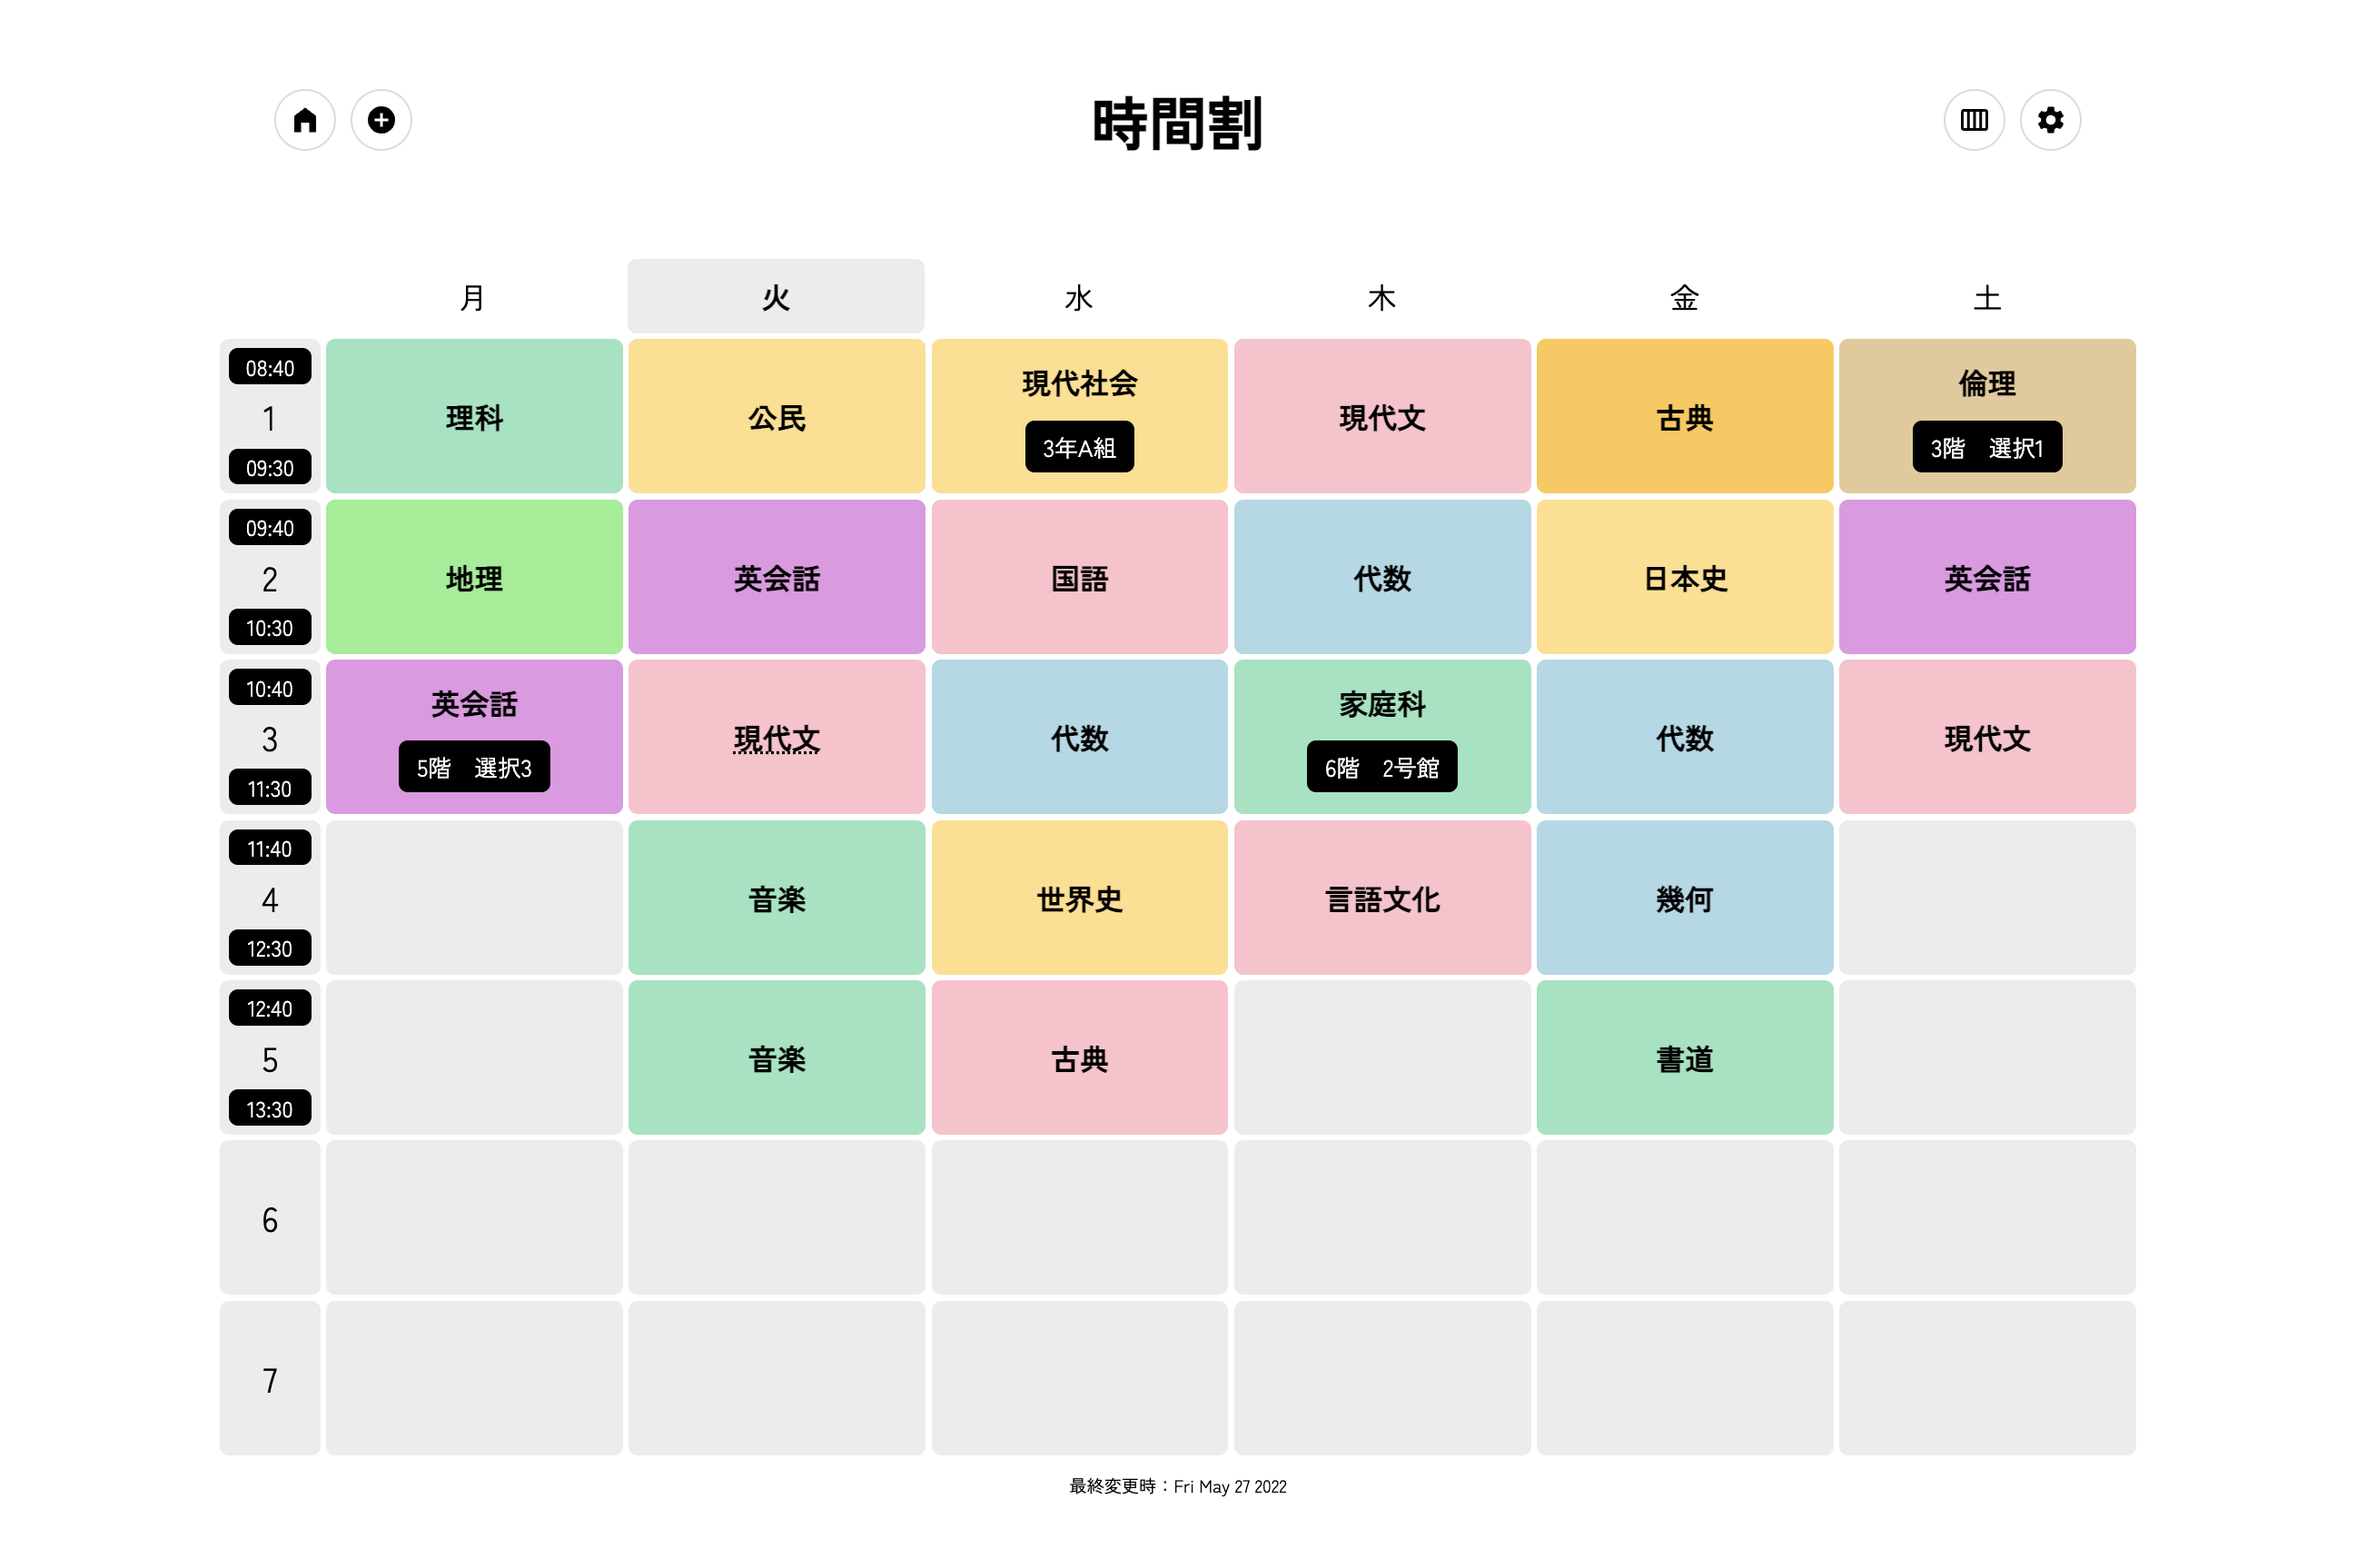
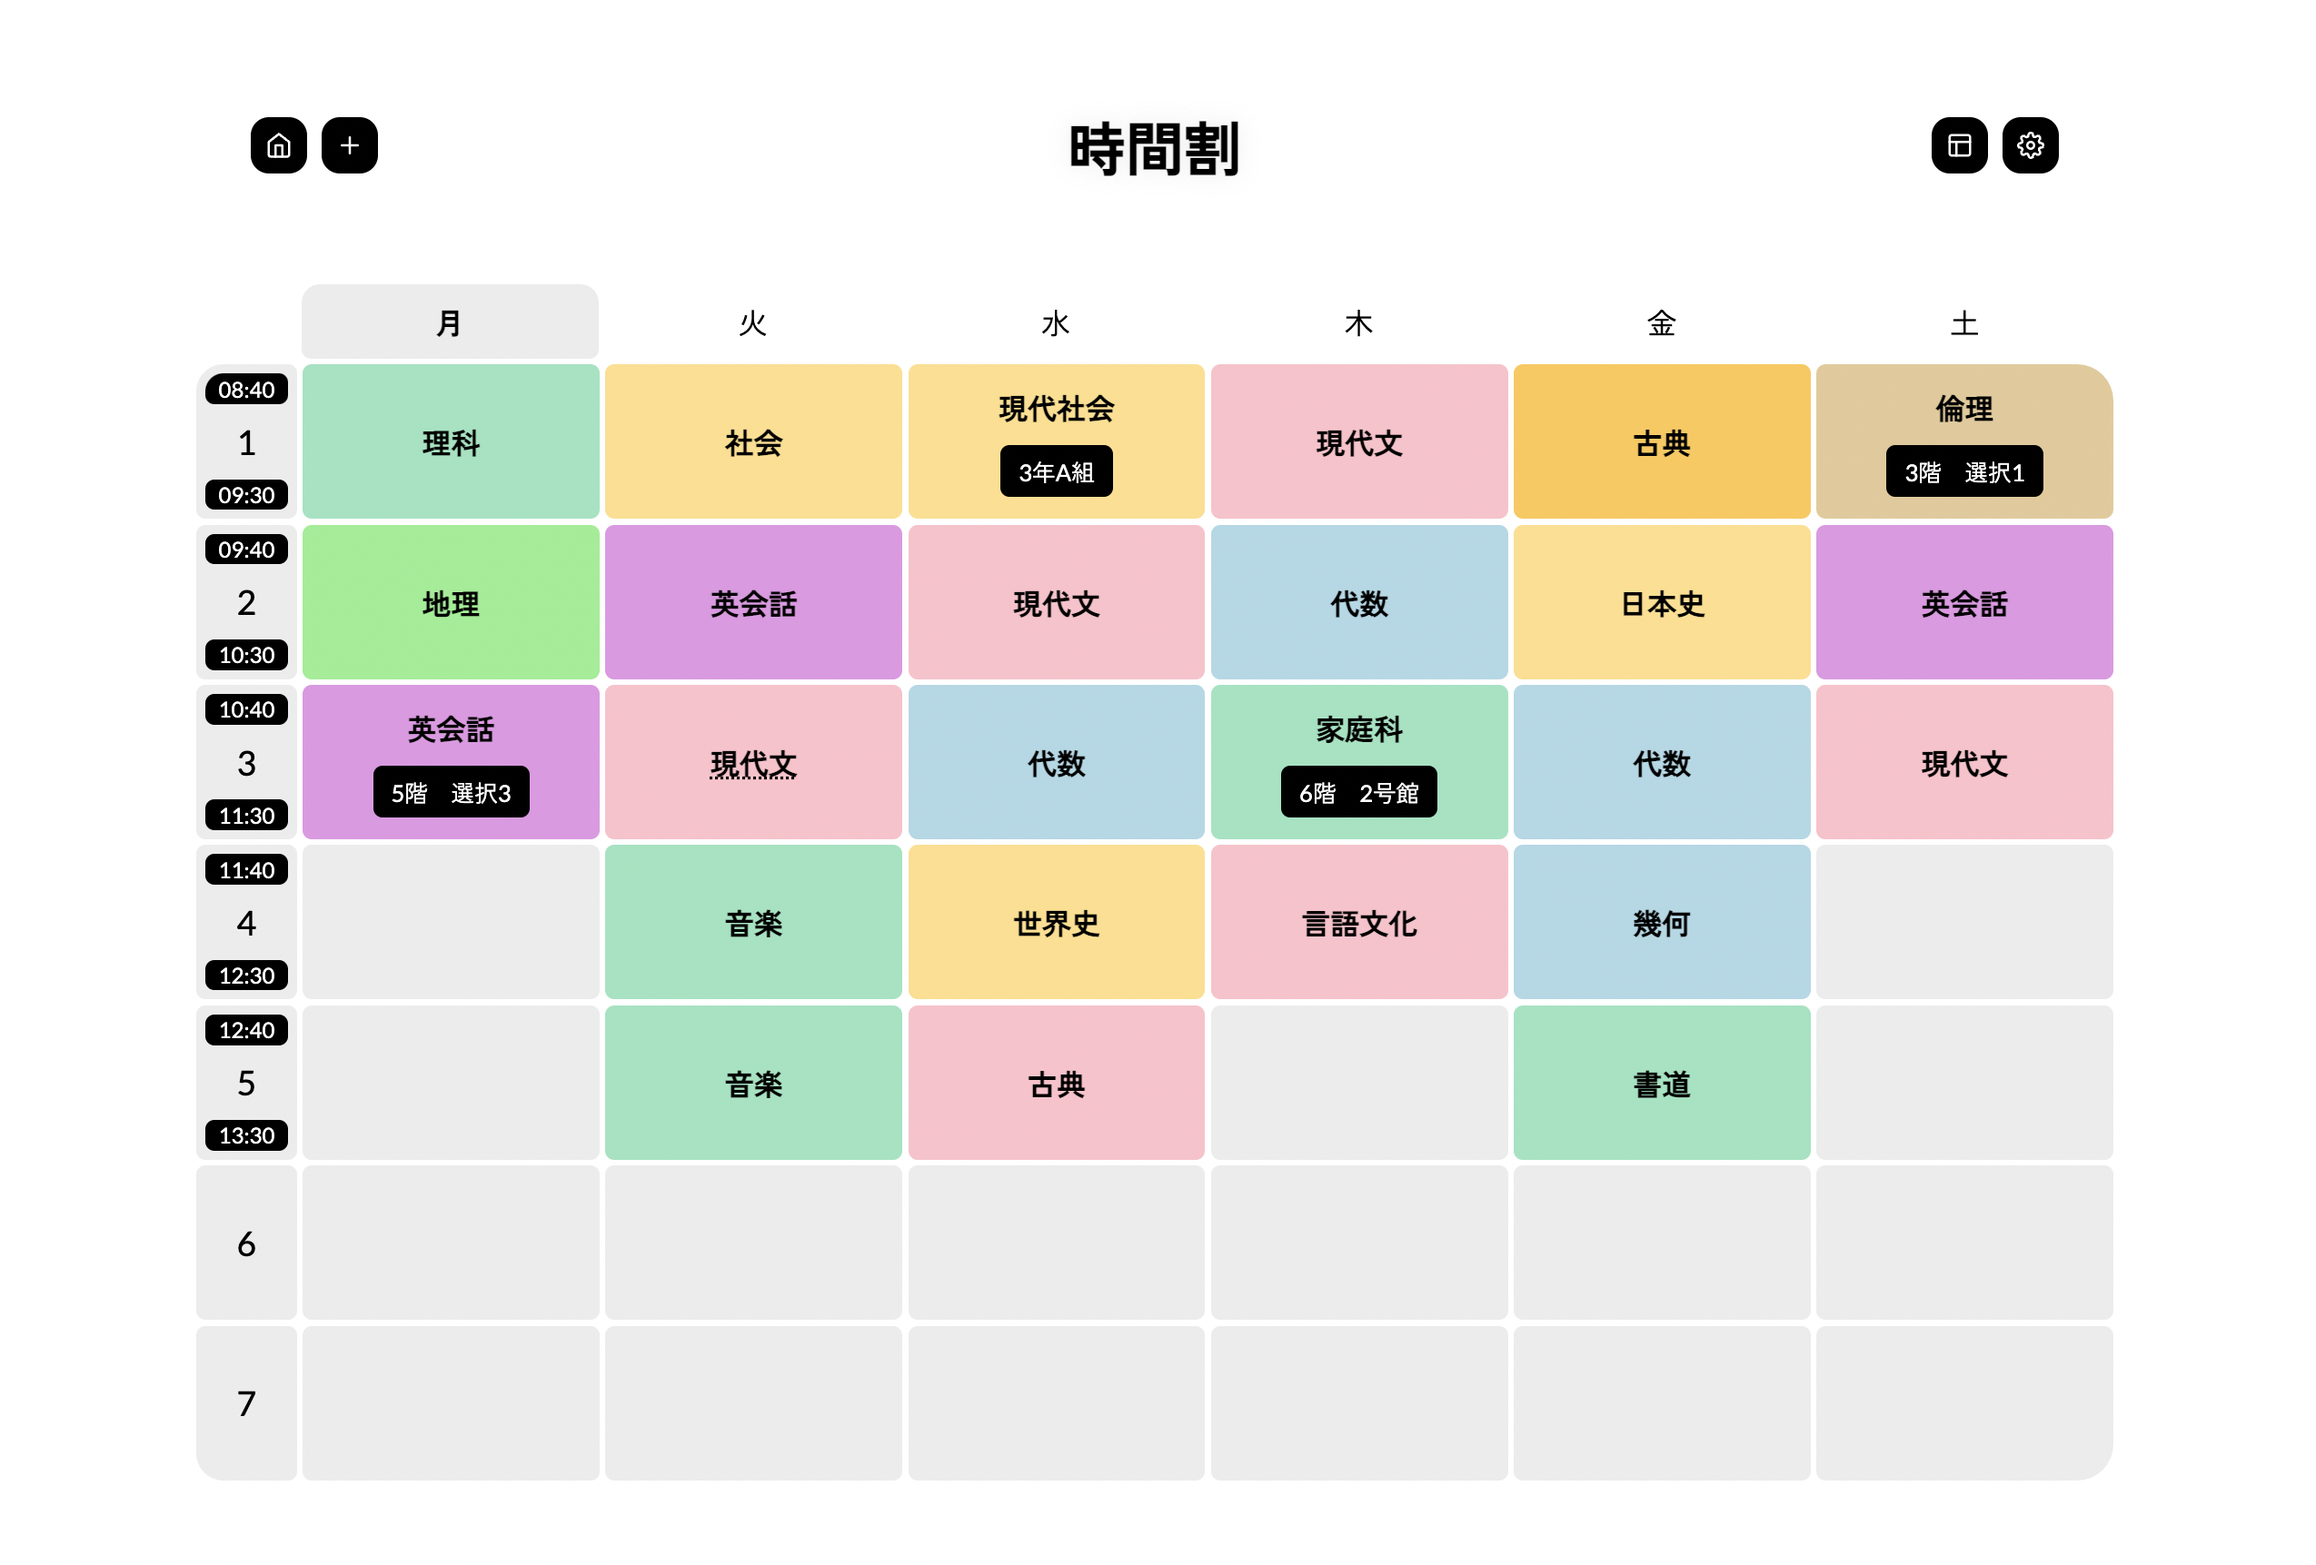
added new images

diff --git a/styles/globals.css b/styles/globals.css
@@ -1,8 +1,5 @@
-@import url('https://fonts.googleapis.com/css2?family=Raleway:wght@500;800&display=swap');
-@import url('https://fonts.googleapis.com/css2?family=Zen+Kaku+Gothic+New&display=swap');
-
+@import url('https://fonts.googleapis.com/css2?family=Lato:wght@400;700;900&display=swap');
 @import url('https://fonts.googleapis.com/css2?family=Zen+Kaku+Gothic+New:wght@400;500&display=swap');
-@import url('https://fonts.googleapis.com/css2?family=Klee+One&display=swap');
 
 
 :root {
@@ -27,7 +24,6 @@ html,
 body {
 	padding: 0;
 	margin: 0;
-	font-family: -apple-system, BlinkMacSystemFont, Segoe UI, Roboto, Oxygen,Ubuntu, Cantarell, Fira Sans, Droid Sans, Helvetica Neue, sans-serif;
 	background-color: var(--system0);
 }
 h1,h2,h3,h4,h5,h6 {
@@ -72,16 +68,11 @@ hr {
 	gap: 2em;
 }
 *{
-	/* font-family: 'Klee One', cursive; */
-	font-family: 'Zen Kaku Gothic New', sans-serif;
+	font-family:'Lato', 'Zen Kaku Gothic New', sans-serif;
 	box-sizing: border-box;
 }
 a {
 	color: inherit;
-}
-
-.logoFont {
-	font-family: 'Raleway', sans-serif;
 }
 
 .grid-1fr-1fr,

diff --git a/pages/index.js b/pages/index.js
@@ -37,13 +37,14 @@ export default function Home() {
       />
         <div className={'sidePadding'} style={{display:'flex',justifyContent: 'center'}}>
           <AlignItems style={{flexDirection:'column', justifyContent: 'center'}}>
-            <AlignItems style={{marginTop:'8em'}}>
+            <AlignItems style={{marginTop:'8em'}} gap={'1em'}>
               <Image
                 src={appIcon}
-                width={100}
-                height={100}
+                width={50}
+                height={50}
                 alt={'Application Icon'}
               />
+              <h1 style={{fontWeight:'900'}}>Deizu</h1>
             </AlignItems>
             <p>時間割作成、履修の記録を効率的に。</p>
             {isBrowser ?
